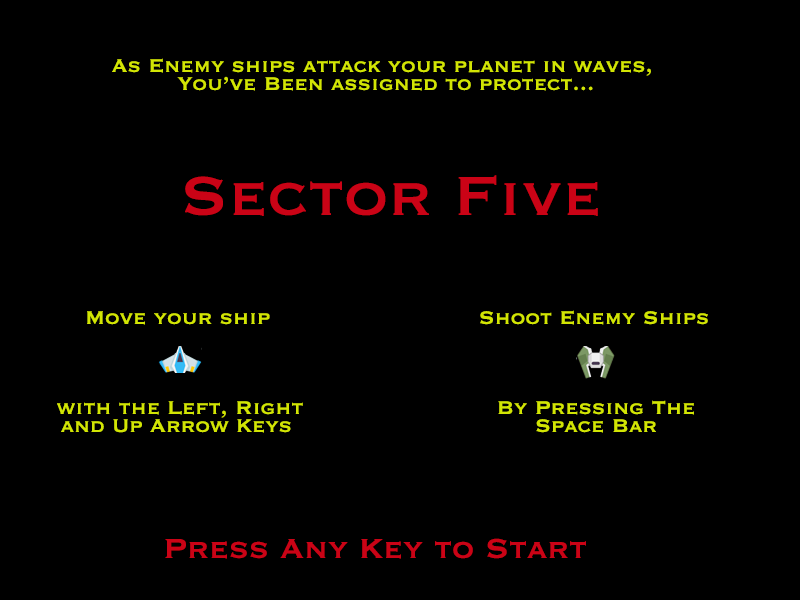
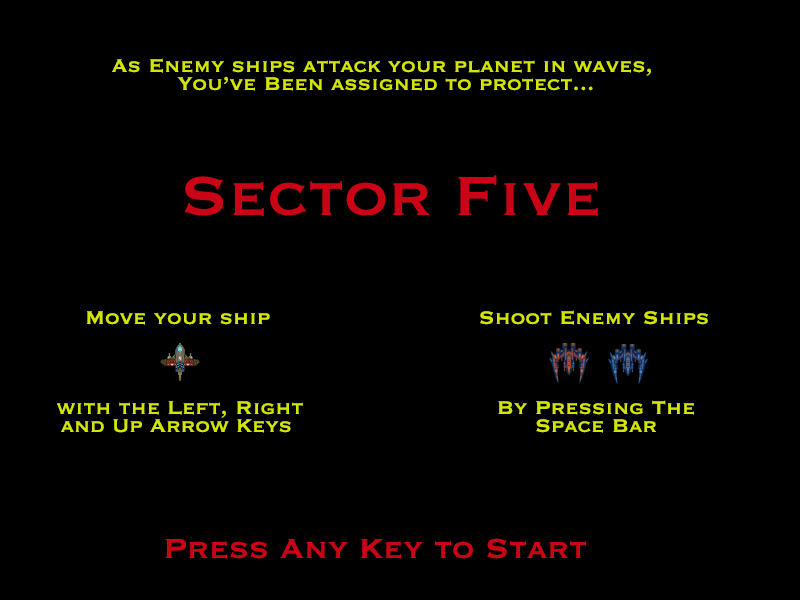
Add explode chain react, enemy shooters, speed, angle

Changed region(s): [[0.6875, 0.57, 0.8125, 0.63], [0.1875, 0.57, 0.25, 0.63]]

diff --git a/SectorFive_4/sector_five_scenes.rb b/SectorFive_4/sector_five_scenes.rb
@@ -41,6 +41,9 @@ class SectorFive < Gosu::Window
       @bullets.each do |bullet|
         bullet.draw
       end
+      @enemy_bullets.each do |bullet|
+        bullet.draw
+      end
       @explosions.each do |explosion|
         explosion.draw
       end
@@ -73,6 +76,7 @@ class SectorFive < Gosu::Window
     @player = Player.new(self)
     @enemies = []
     @bullets = []
+    @enemy_bullets = []
     @explosions = []
     @scene = :game
     @enemies_appeared = 0
@@ -91,13 +95,45 @@ class SectorFive < Gosu::Window
     @player.accelerate if button_down?(Gosu::KbUp)
     @player.move
     if rand < ENEMY_FREQUENCY
-      @enemies.push Enemy.new(self)
-      @enemies_appeared += 1
+      if @enemies_appeared < 30
+        @enemies.push Enemy.new(self)
+        @enemies_appeared += 1
+      elsif (30...60).cover? @enemies_appeared
+        @new_enemy = Enemy.new(self)
+        @new_enemy.angle = rand(-45..45) + 180
+        @new_enemy.speed = rand(1..2)
+        if rand < 0.5
+          @new_enemy.can_shoot = true
+        end
+        if @new_enemy.can_shoot
+          @new_enemy.image = @new_enemy.shooter_image
+        end
+        @new_enemy.shoot_frequency = 0.005
+        @enemies.push @new_enemy
+        @enemies_appeared += 1
+      else
+        @new_enemy = Enemy.new(self)
+        @new_enemy.angle = rand(-60..60) + 180
+        @new_enemy.speed = rand(2..3)
+        if rand < 0.65
+          @new_enemy.can_shoot = true
+        end
+        if @new_enemy.can_shoot
+          @new_enemy.image = @new_enemy.shooter_image
+        end
+        @new_enemy.shoot_frequency = rand(0.005..0.01)
+        @enemies.push @new_enemy
+        @enemies_appeared += 1
+      end
+
     end
     @enemies.each do |enemy|
       enemy.move
     end
     @bullets.each do |bullet|
+      bullet.move
+    end
+    @enemy_bullets.each do |bullet|
       bullet.move
     end
     @enemies.dup.each do |enemy|
@@ -108,7 +144,18 @@ class SectorFive < Gosu::Window
           @bullets.delete bullet
           @explosions.push Explosion.new(self, enemy.x, enemy.y)
           @enemies_destroyed += 1
-          @explosion_sound.play
+          @explosion_sound.play(0.3)
+        end
+      end
+    end
+    @enemies.dup.each do |enemy|
+      @explosions.dup.each do |explosion|
+        distance = Gosu.distance(enemy.x, enemy.y, explosion.x, explosion.y)
+        if distance < enemy.radius + explosion.radius
+          @enemies.delete enemy
+          @explosions.push Explosion.new(self, enemy.x, enemy.y)
+          @enemies_destroyed += 1
+          @explosion_sound.play(0.1)
         end
       end
     end
@@ -120,7 +167,20 @@ class SectorFive < Gosu::Window
         @enemies.delete enemy
       end
     end
+    if @enemies_appeared >= 10
+      @enemies.dup.each do |enemy|
+        if enemy.can_shoot && enemy.shoot_frequency > rand
+          @enemy_bullet = Bullet.new(self, enemy.x, enemy.y, enemy.angle)
+          @enemy_bullet.image = @enemy_bullet.enemy_bullet_image
+          @enemy_bullets.push @enemy_bullet
+          @shooting_sound.play(0.1)
+        end
+      end
+    end
     @bullets.dup.each do |bullet|
+      @bullets.delete bullet unless bullet.onscreen?
+    end
+    @enemy_bullets.dup.each do |bullet|
       @bullets.delete bullet unless bullet.onscreen?
     end
     initialize_end(:count_reached) if @enemies_appeared > MAX_ENEMIES
@@ -128,12 +188,16 @@ class SectorFive < Gosu::Window
       distance = Gosu::distance(enemy.x, enemy.y, @player.x, @player.y)
       initialize_end(:hit_by_enemy) if distance < @player.radius + enemy.radius
     end
+    @enemy_bullets.each do |enemy|
+      distance = Gosu::distance(enemy.x, enemy.y, @player.x, @player.y)
+      initialize_end(:hit_by_bullet) if distance < @player.radius + enemy.radius
+    end
     initialize_end(:off_top) if @player.y < -@player.radius
   end
   def button_down_game(id)
     if id == Gosu::KbSpace
       @bullets.push Bullet.new(self, @player.x, @player.y, @player.angle)
-      @shooting_sound.play(0.3)
+      @shooting_sound.play(0.2)
     end
   end
 
@@ -144,6 +208,10 @@ class SectorFive < Gosu::Window
       @message2 = "and #{100 - @enemies_destroyed} reached the base."
     when :hit_by_enemy
       @message = "You were struck by an enemy ship. 🥴"
+      @message2 = "Before your ship was destroyed, "
+      @message2 += "you took out #{@enemies_destroyed} enemy ships."
+    when :hit_by_bullet
+      @message = "You were shot down by an enemy ship. 🥴"
       @message2 = "Before your ship was destroyed, "
       @message2 += "you took out #{@enemies_destroyed} enemy ships."
     when :off_top
@@ -179,7 +247,7 @@ class SectorFive < Gosu::Window
     @credits.each do |credit|
       credit.move
     end
-    if @credits.last.y < 150
+    if @credits.last.y < 50
       @credits.each do |credit|
       credit.reset
       end

diff --git a/SectorFive_4/enemy.rb b/SectorFive_4/enemy.rb
@@ -1,17 +1,31 @@
 class Enemy
-  SPEED = 2
-  attr_reader :x, :y, :angle, :radius
+  attr_reader :x, :y, :angle, :radius, :shoot_frequency, :can_shoot, :shooter_image
+  attr_writer :angle, :can_shoot, :speed, :shoot_frequency, :image
   def initialize(window)
     @radius = 20
     @x = rand(window.width - 2 * @radius) + @radius
     @y = 0
     @angle = 180
     @image = Gosu::Image.new('images/enemy.png')
+    @shooter_image = Gosu::Image.new('images/enemy_shooter.png')
+    @can_shoot = false
+    @speed = 1.5
+    @window = window
+    @shoot_frequency = 1
   end
   def move
-    @y += SPEED
+    @y += Gosu.offset_y(@angle, @speed)
+    @x += Gosu.offset_x(@angle, @speed)
+    if @x > @window.width - @radius
+      @angle += (180 - @angle) * 2
+      @x = @window.width -  radius
+    end
+    if @x < @radius
+      @angle -= (@angle - 180) * 2
+      @x = @radius
+    end
   end
   def draw
-    @image.draw(@x - @radius, @y - @radius, 1)
+    @image.draw_rot(@x, @y, 1, @angle)
   end
 end

diff --git a/SectorFive_4/player.rb b/SectorFive_4/player.rb
@@ -1,6 +1,6 @@
 class Player
   ROTATION_SPEED = 3
-  ACCELERATION = 2
+  ACCELERATION = 1.5
   FRICTION = 0.9
   attr_reader :x, :y, :angle, :radius
   def initialize(window)
@@ -36,11 +36,11 @@ class Player
     @velocity_x *= FRICTION
     @velocity_y *= FRICTION
     if @x > @window.width - @radius
-      @velocity_x = 0 - @velocity_x
+      @velocity_x = -@velocity_x
       @x = @window.width - @radius
     end
     if @x < @radius
-      @velocity_x = 0 - @velocity_x
+      @velocity_x =  -@velocity_x
       @x = @radius
     end
     if @y > @window.height - @radius

diff --git a/SectorFive_4/bullet.rb b/SectorFive_4/bullet.rb
@@ -1,11 +1,13 @@
 class Bullet
   SPEED = 5
-  attr_reader :x, :y, :angle, :radius
+  attr_reader :x, :y, :angle, :radius, :enemy_bullet_image
+  attr_writer :image
   def initialize(window, x, y, angle)
     @x = x
     @y = y
     @direction = angle
     @image = Gosu::Image.new('images/bullet.png')
+    @enemy_bullet_image = Gosu::Image.new('images/enemy_bullet.png')
     @radius = 3
     @window = window
   end

diff --git a/SectorFive_4/explosion.rb b/SectorFive_4/explosion.rb
@@ -1,5 +1,5 @@
 class Explosion
-  attr_reader :finished
+  attr_reader :finished, :x, :y, :radius
   def initialize(window, x, y)
     @x = x
     @y = y
